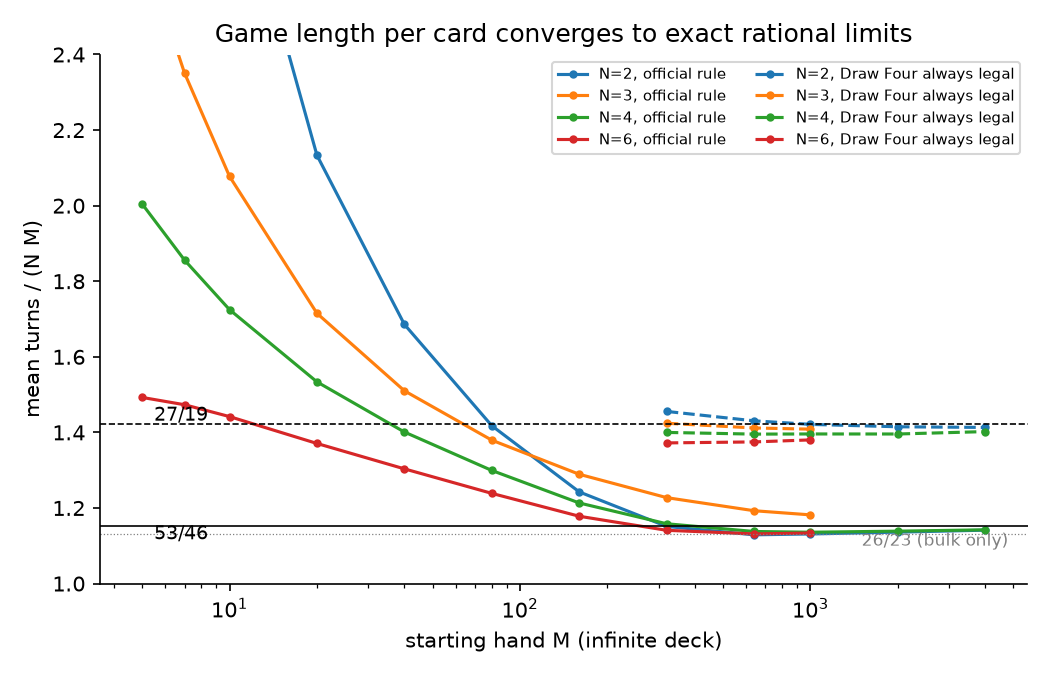
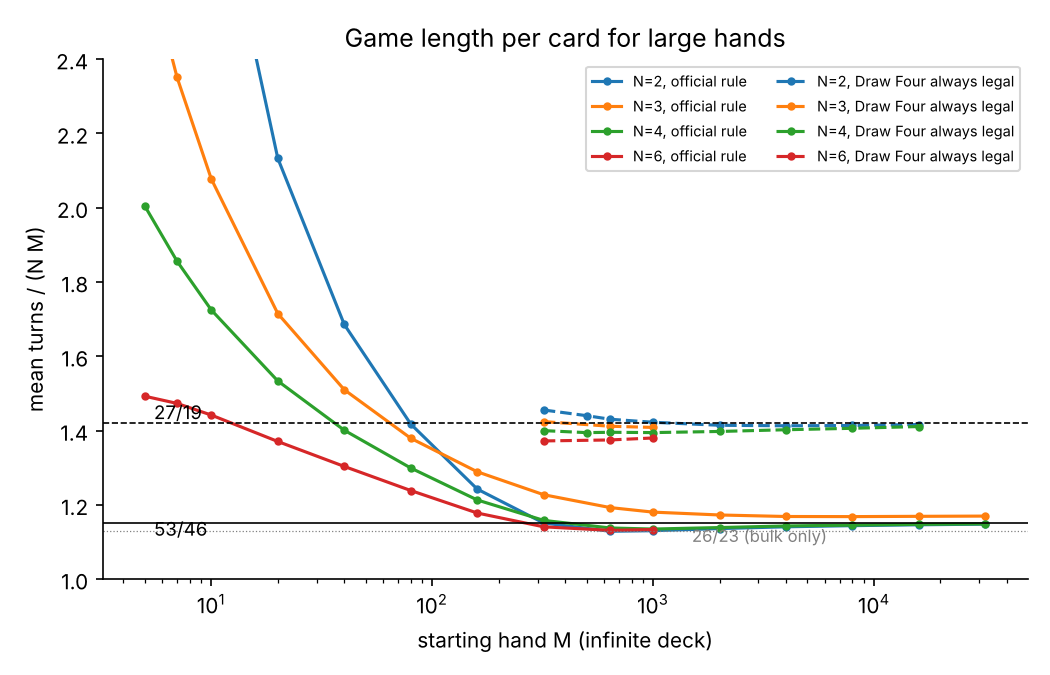
feat(analysis): fit the official runs against the endgame limits

diff --git a/analysis/figures.py b/analysis/figures.py
@@ -32,6 +32,7 @@ def fig_fluid_limit():
     R = load("e2_infinite.json")
     B = load("e3_bigm.json") if os.path.exists(os.path.join(RES, "e3_bigm.json")) else []
     H = load("e3b_hugem.json") if os.path.exists(os.path.join(RES, "e3b_hugem.json")) else []
+    E6 = [r for f in ("e6_official.json", "e6b_odd.json", "e8_free.json") if os.path.exists(os.path.join(RES, f)) for r in load(f)]
     fig, ax = plt.subplots(figsize=(7, 4.5))
     for free, ls in ((False, "-"), (True, "--")):
         for n, col in zip((2, 3, 4, 6), ("C0", "C1", "C2", "C3")):
@@ -39,8 +40,8 @@ def fig_fluid_limit():
             for r in R:
                 if r["n"] == n and not free and r["m"] >= 5:
                     pts[r["m"]] = r["mean_turns"] / (n * r["m"])
-            for r in B + H:
-                if r["n"] == n and r["wd4_free"] == free:
+            for r in B + H + E6:
+                if r["n"] == n and bool(r["wd4_free"]) == free:
                     pts[r["m"]] = r["mean_turns"] / (n * r["m"])
             if not pts:
                 continue
@@ -52,8 +53,35 @@ def fig_fluid_limit():
     ax.axhline(26 / 23, color="grey", lw=0.6, ls=":"); ax.text(1500, 26 / 23 - 0.03, "26/23 (bulk only)", fontsize=8, color="grey")
     ax.set_xscale("log"); ax.set_xlabel("starting hand M (infinite deck)"); ax.set_ylabel("mean turns / (N M)")
     ax.set_ylim(1.0, 2.4); ax.legend(fontsize=7, ncol=2)
-    ax.set_title("Game length per card converges to exact rational limits")
+    ax.set_title("Game length per card for large hands")
     fig.tight_layout(); fig.savefig(os.path.join(FIG, "fluid_limit.png"), dpi=150)
+
+
+def fig_official_limit():
+    """T/(NM) under the official rule against 1/sqrt(M), with the limit the endgame runs predict at 1/sqrt(M) = 0."""
+    import sys
+    sys.path.insert(0, os.path.dirname(os.path.abspath(__file__)))
+    from fit_official import limits, points
+    lim = limits()
+    fig, ax = plt.subplots(figsize=(7, 4.5))
+    for n, col in zip((2, 3, 4, 5), ("C0", "C1", "C2", "C3")):
+        d = points(n)
+        if not len(d):
+            continue
+        M, T, s, _ = d.T
+        x = M ** -.5
+        ax.errorbar(x, T, yerr=s, fmt="o", ms=4, color=col, label=f"N={n}")
+        L = lim[n][0]
+        big = M >= 4000
+        a = np.sum((T[big] - L) * x[big] / s[big] ** 2) / np.sum(x[big] ** 2 / s[big] ** 2)
+        xs = np.linspace(0, x.max(), 50)
+        ax.plot(xs, L + a * xs, "--", color=col, lw=0.8)
+        ax.plot([0], [L], marker="*", ms=11, color=col, mec="k", mew=0.5)
+    ax.text(0.0004, 53 / 46 - 0.004, "53/46", fontsize=8)
+    ax.set_xlabel("1 / sqrt(M)"); ax.set_ylabel("mean turns / (N M), official rule")
+    ax.set_xlim(left=-0.0008); ax.legend(fontsize=8)
+    ax.set_title("Official rule against the limits from the endgame runs (stars)")
+    fig.tight_layout(); fig.savefig(os.path.join(FIG, "official_limit.png"), dpi=150)
 
 
 def fig_tail():
@@ -101,5 +129,5 @@ def fig_tournament():
 
 
 if __name__ == "__main__":
-    fig_length_grid(); fig_fluid_limit(); fig_tail(); fig_shortest(); fig_tournament()
+    fig_length_grid(); fig_fluid_limit(); fig_official_limit(); fig_tail(); fig_shortest(); fig_tournament()
     print("figures written to", FIG)

diff --git a/analysis/fit_official.py b/analysis/fit_official.py
@@ -1,0 +1,57 @@
+"""Fit how T/(NM) under the official Draw Four rule approaches its large-hand limit.
+
+The limit for each N comes from the endgame runs: T/(NM) -> 26/23 + E/(23N), where E is the endgame length per unit of hoard. Each fit is T/(NM) = L + a M^(-p), once with L free and once with L fixed at the predicted value."""
+import json
+import os
+import numpy as np
+from scipy.optimize import curve_fit
+
+RES = os.path.join(os.path.dirname(os.path.dirname(os.path.abspath(__file__))), "results")
+
+
+def limits():
+    """Predicted T/(NM) and leftover share per loser for each N, from the largest hoard run."""
+    best = {}
+    for r in json.load(open(os.path.join(RES, "e7_endgame.json"))):
+        if r["k"] == 0 and r["h"] >= best.get(r["n"], {"h": 0})["h"]:
+            best[r["n"]] = r
+    return {n: (26 / 23 + r["turns_per_h"] / (23 * n), r["sem"] / (23 * n), r["left_per_loser_per_h"] / 23) for n, r in best.items()}
+
+
+def points(n, free=False, names=("e6_official.json", "e6b_odd.json")):
+    out = []
+    rows = [r for f in names if os.path.exists(os.path.join(RES, f)) for r in json.load(open(os.path.join(RES, f)))]
+    for r in rows:
+        if r["n"] != n or bool(r.get("wd4_free")) != free:
+            continue
+        done = r["games"] - r["unfinished"]
+        nm = n * r["m"]
+        left = nm + r["mean_draws"] - r["mean_plays"]
+        out.append((r["m"], r["mean_turns"] / nm, (r["var_turns"] / done) ** .5 / nm, left / (n - 1) / r["m"]))
+    return np.array(sorted(out))
+
+
+if __name__ == "__main__":
+    lim = limits()
+    for n in sorted(lim):
+        L, Lsem, share = lim[n]
+        print(f"N={n} predicted T/(NM)={L:.5f}±{Lsem:.5f} leftover per loser={share:.4f}M")
+    print()
+    for n in (2, 3, 4, 5):
+        d = points(n)
+        if len(d) < 4:
+            continue
+        M, T, s, left = d.T
+        L = lim[n][0]
+        (Lf, a, p), cov = curve_fit(lambda m, L, a, p: L + a * m ** -p, M, T, p0=(L, -1, .5), sigma=s, absolute_sigma=True, maxfev=20000)
+        e = np.sqrt(np.diag(cov))
+        (a2, p2), cov2 = curve_fit(lambda m, a, p: L + a * m ** -p, M, T, p0=(-1, .5), sigma=s, absolute_sigma=True, maxfev=20000)
+        chi2 = float(np.sum((((L + a2 * M ** -p2) - T) / s) ** 2))
+        (L3, a3), cov3 = curve_fit(lambda m, L, a: L + a * m ** -.5, M, T, p0=(L, -1), sigma=s, absolute_sigma=True)
+        chi3 = float(np.sum((((L3 + a3 * M ** -.5) - T) / s) ** 2))
+        print(f"N={n} M={[int(x) for x in M]}")
+        print(f"  T/(NM) = {', '.join(f'{x:.5f}' for x in T)}")
+        print(f"  free fit:  L={Lf:.4f}±{e[0]:.4f} p={p:.2f}±{e[2]:.2f}")
+        print(f"  fixed L={L:.5f}: p={p2:.2f} chi2={chi2:.1f} on {len(M) - 2} dof")
+        print(f"  p fixed at 1/2: L={L3:.5f}±{cov3[0, 0] ** .5:.5f} chi2={chi3:.1f} on {len(M) - 2} dof")
+        print(f"  leftover per loser / M = {', '.join(f'{x:.4f}' for x in left)} (limit {lim[n][2]:.4f})")
